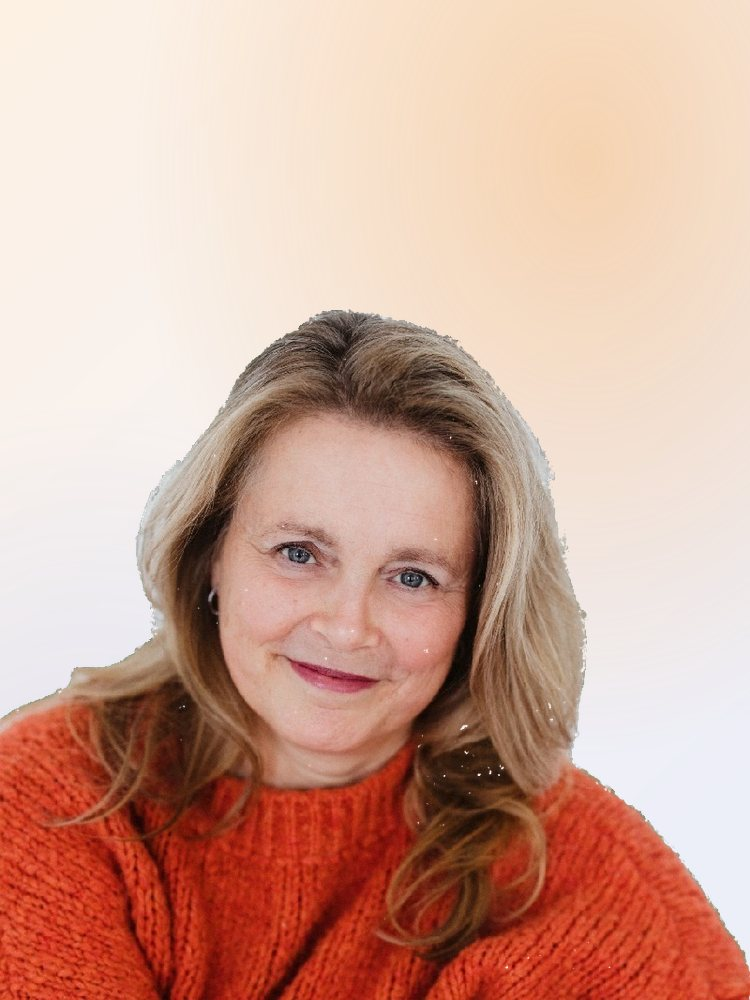
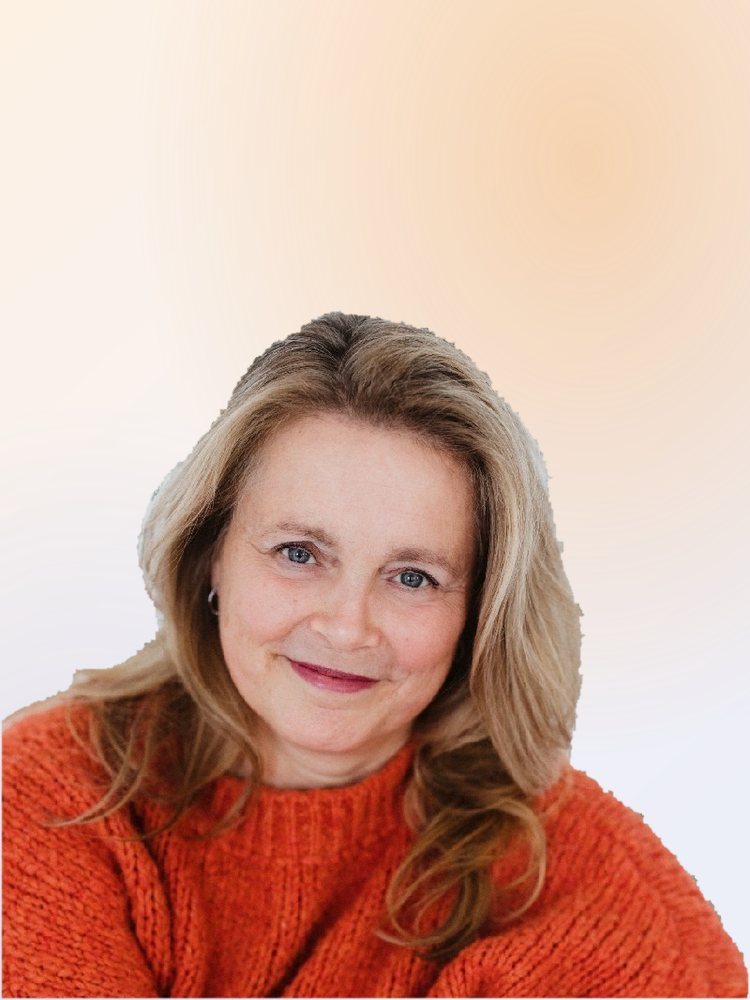
Groenresten en gaatjes uit de foto's; elk teamlid een eigen pagina
Youri op de vorige versie: sommige foto's hadden nog groene resten, en het
uitklappen in het raster oogde rommelig — het verhaal moet op een eigen
pagina.

De foto's. Twee nieuwe stappen in scripts/team-foto.mjs:
- Gaten dichten: maskerruis bínnen de persoon werd door de binarisatie een
  gat waar de achtergrond als witte spikkels doorheen prikte (goed te zien
  bij Marieke). Alles wat niet vanaf de beeldrand bereikbaar is, is nu
  voorgrond.
- Erosie plus randzone-ontgroening: de buitenste twee pixels van de rand
  eraf, en in de zachte rand (alfa < 250) wordt groenzweem altijd
  opgeruimd — daar kan geen kleding zitten, dus dat is veilig, ook als
  iemand binnenin de vorm groen draagt.
Alle twaalf opnieuw door de pijplijn; Marieke en Youri gecontroleerd:
vlekkeloos.

De teampagina's. Nieuw sjabloon src/pages/team/[lid].astro: kruimelpad, rol
als bovenkop, naam, openingszin met de merknaam, groot portret, het
verhaal, LinkedIn en een terugweg naar het team. Elk lid krijgt een
Person-schema dat via worksFor aan het Organization-@id hangt, zodat de
entiteitengrafiek klopt. De kaarten op /over-ons/ zijn nu gewone links
(foto, naam, pijltje) in plaats van uitklappende details — twaalf rustige
kaarten, geen verspringend raster meer. lastmod in de sitemap werkt ook
voor de nieuwe pagina's (bronVoor kent team/ nu).

Van 207 naar 219 pagina's. Controle: build en controleer.mjs zonder
fouten (titels en descriptions van de twaalf nieuwe pagina's uniek, geen
[…]

diff --git a/BESLUITEN.md b/BESLUITEN.md
@@ -136,7 +136,7 @@ model.
 
 ## 7c. Teamfoto's (26-08-2026)
 
-Alle twaalf portretten staan erop. De achtergronden zijn met scripts/team-foto.mjs vervangen door een verloop in de merkkleuren (uitsnijden met RMBG-1.4, lokaal via WASM). Claudia bleek wel een echte foto te hebben: het "plaatshouder"-bestand was een greenscreen-portret. LinkedIn-links staan erin voor iedereen behalve Marieke van Leeuwen — die ontbreekt nog.
+Alle twaalf portretten staan erop, en elk teamlid heeft een eigen pagina onder /team/ — het overzicht op /over-ons/ toont alleen foto en naam (keuze Youri, 31-08-2026: uitklappen in het raster oogde rommelig). De achtergronden zijn met scripts/team-foto.mjs vervangen door een verloop in de merkkleuren (uitsnijden met RMBG-1.4, lokaal via WASM). Claudia bleek wel een echte foto te hebben: het "plaatshouder"-bestand was een greenscreen-portret. LinkedIn-links staan erin voor iedereen behalve Marieke van Leeuwen — die ontbreekt nog.
 
 ## 8. Nog open — heeft Youri nodig
 
